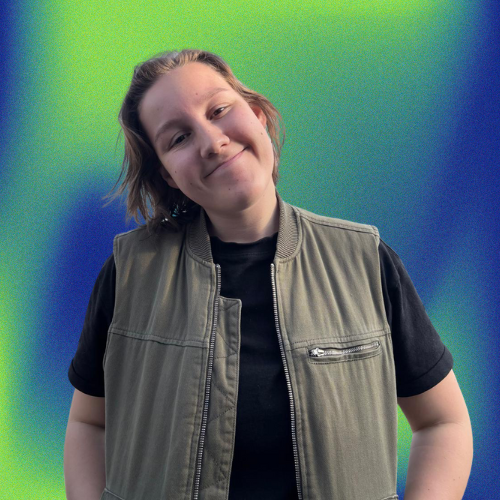
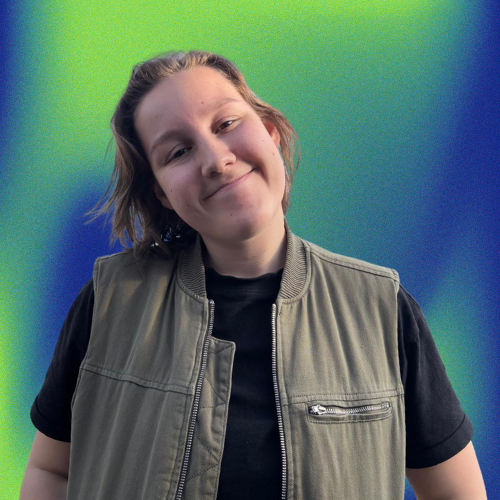
op hoop van zegen

diff --git a/example.html b/example.html
@@ -106,7 +106,7 @@
           <p>Head of Production</p>
         </div>
         <div class="team-member">
-          <img src="images/team3.jpg" alt="Zoë Smits">
+          <img src="images/genrgywebsitezoe.png" alt="Zoë Smits">
           <h3>Zoë Smits</h3>
           <p>Head of Management</p>
         </div>
